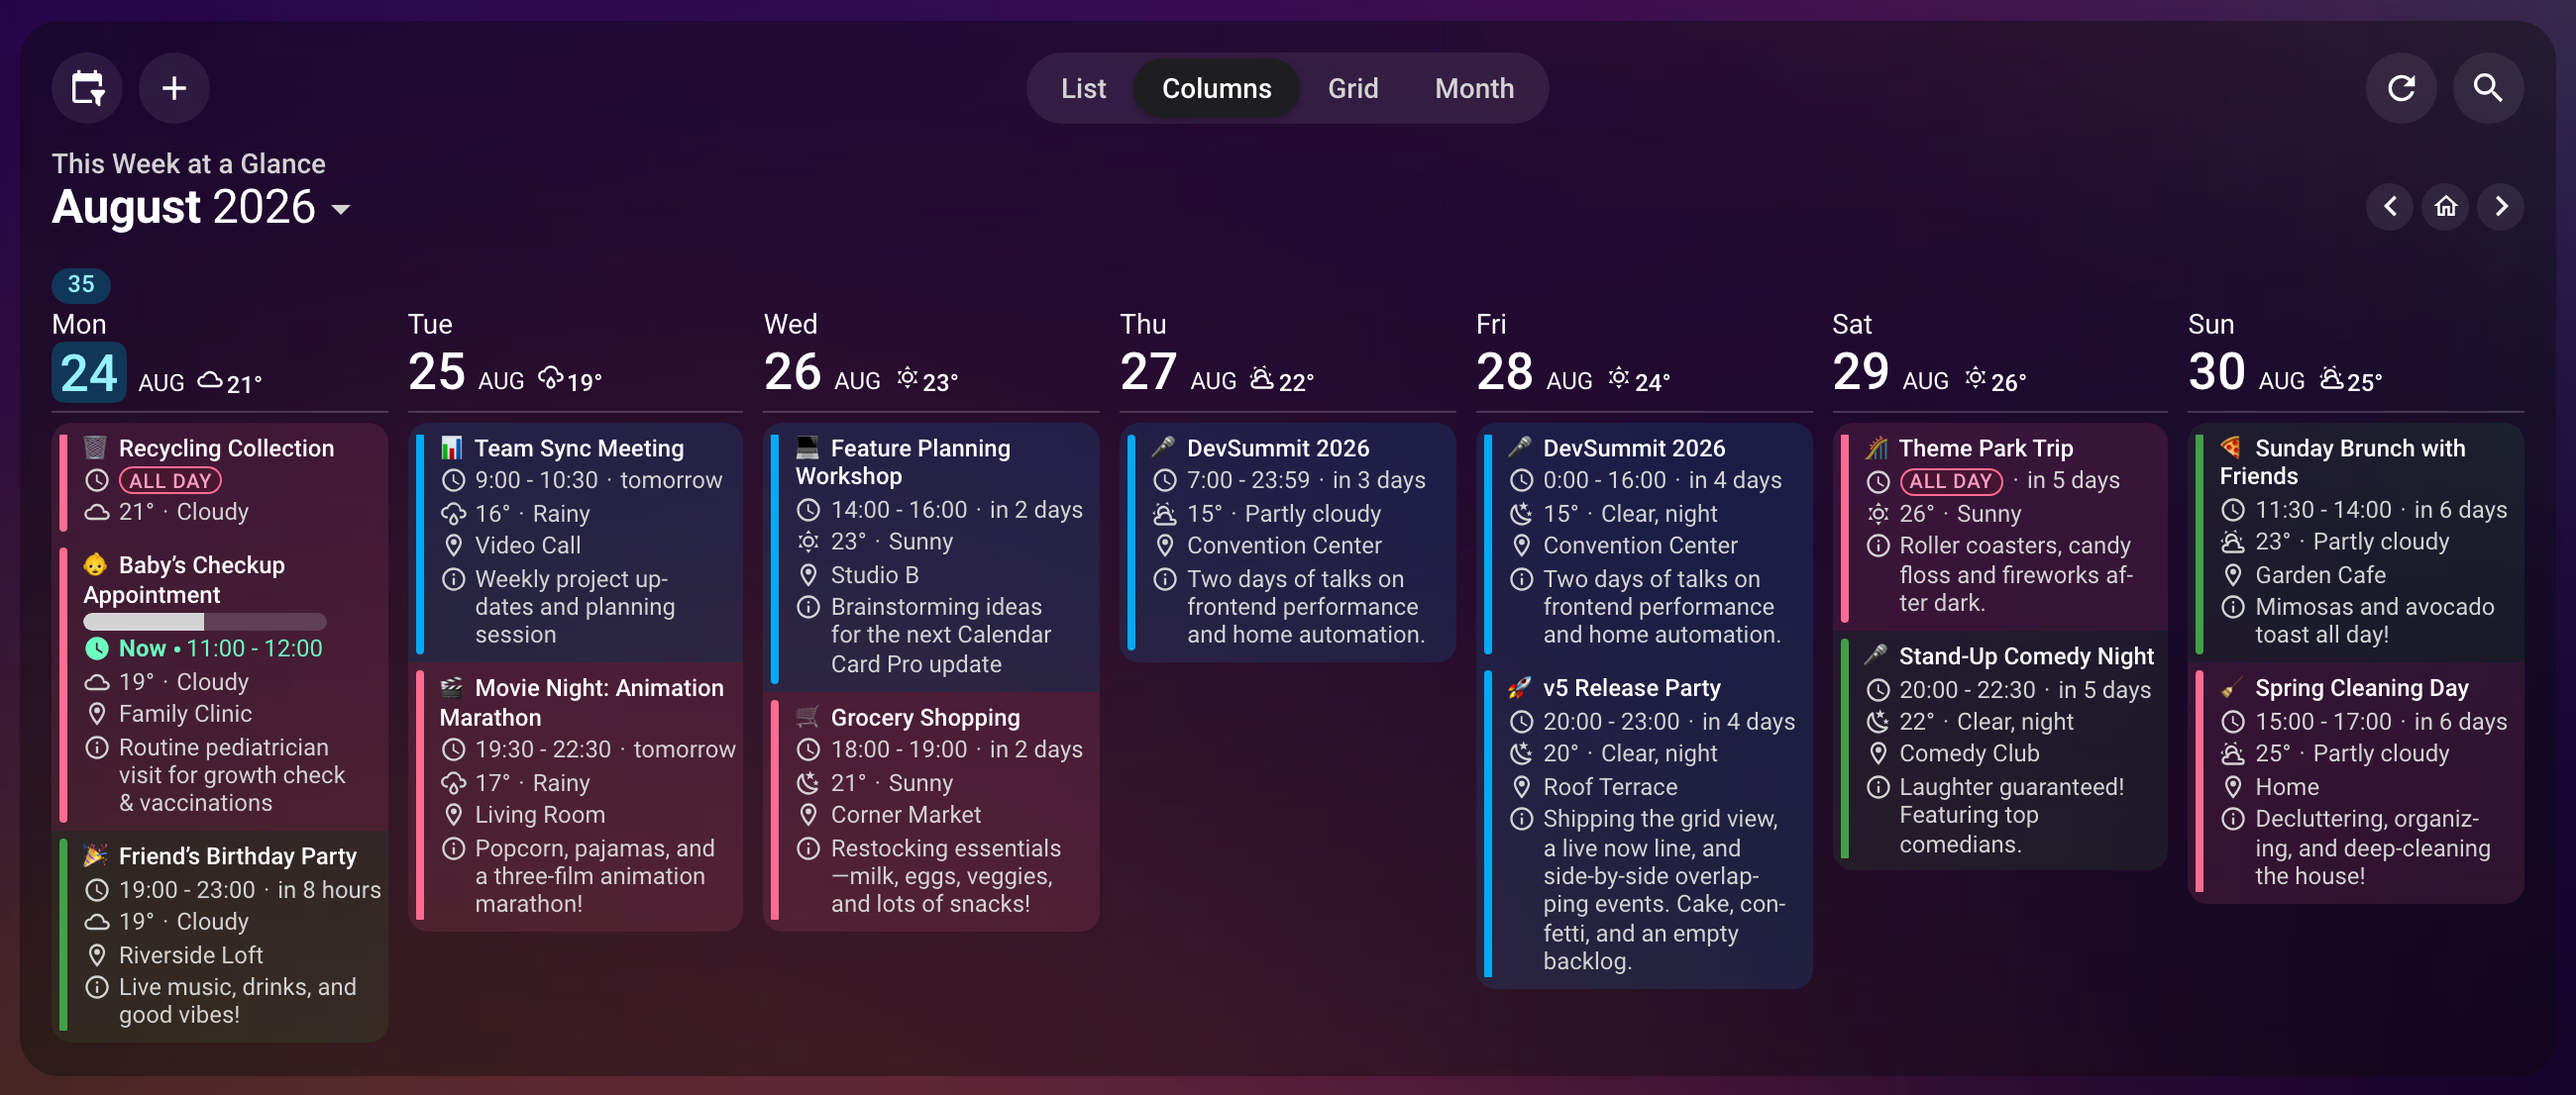
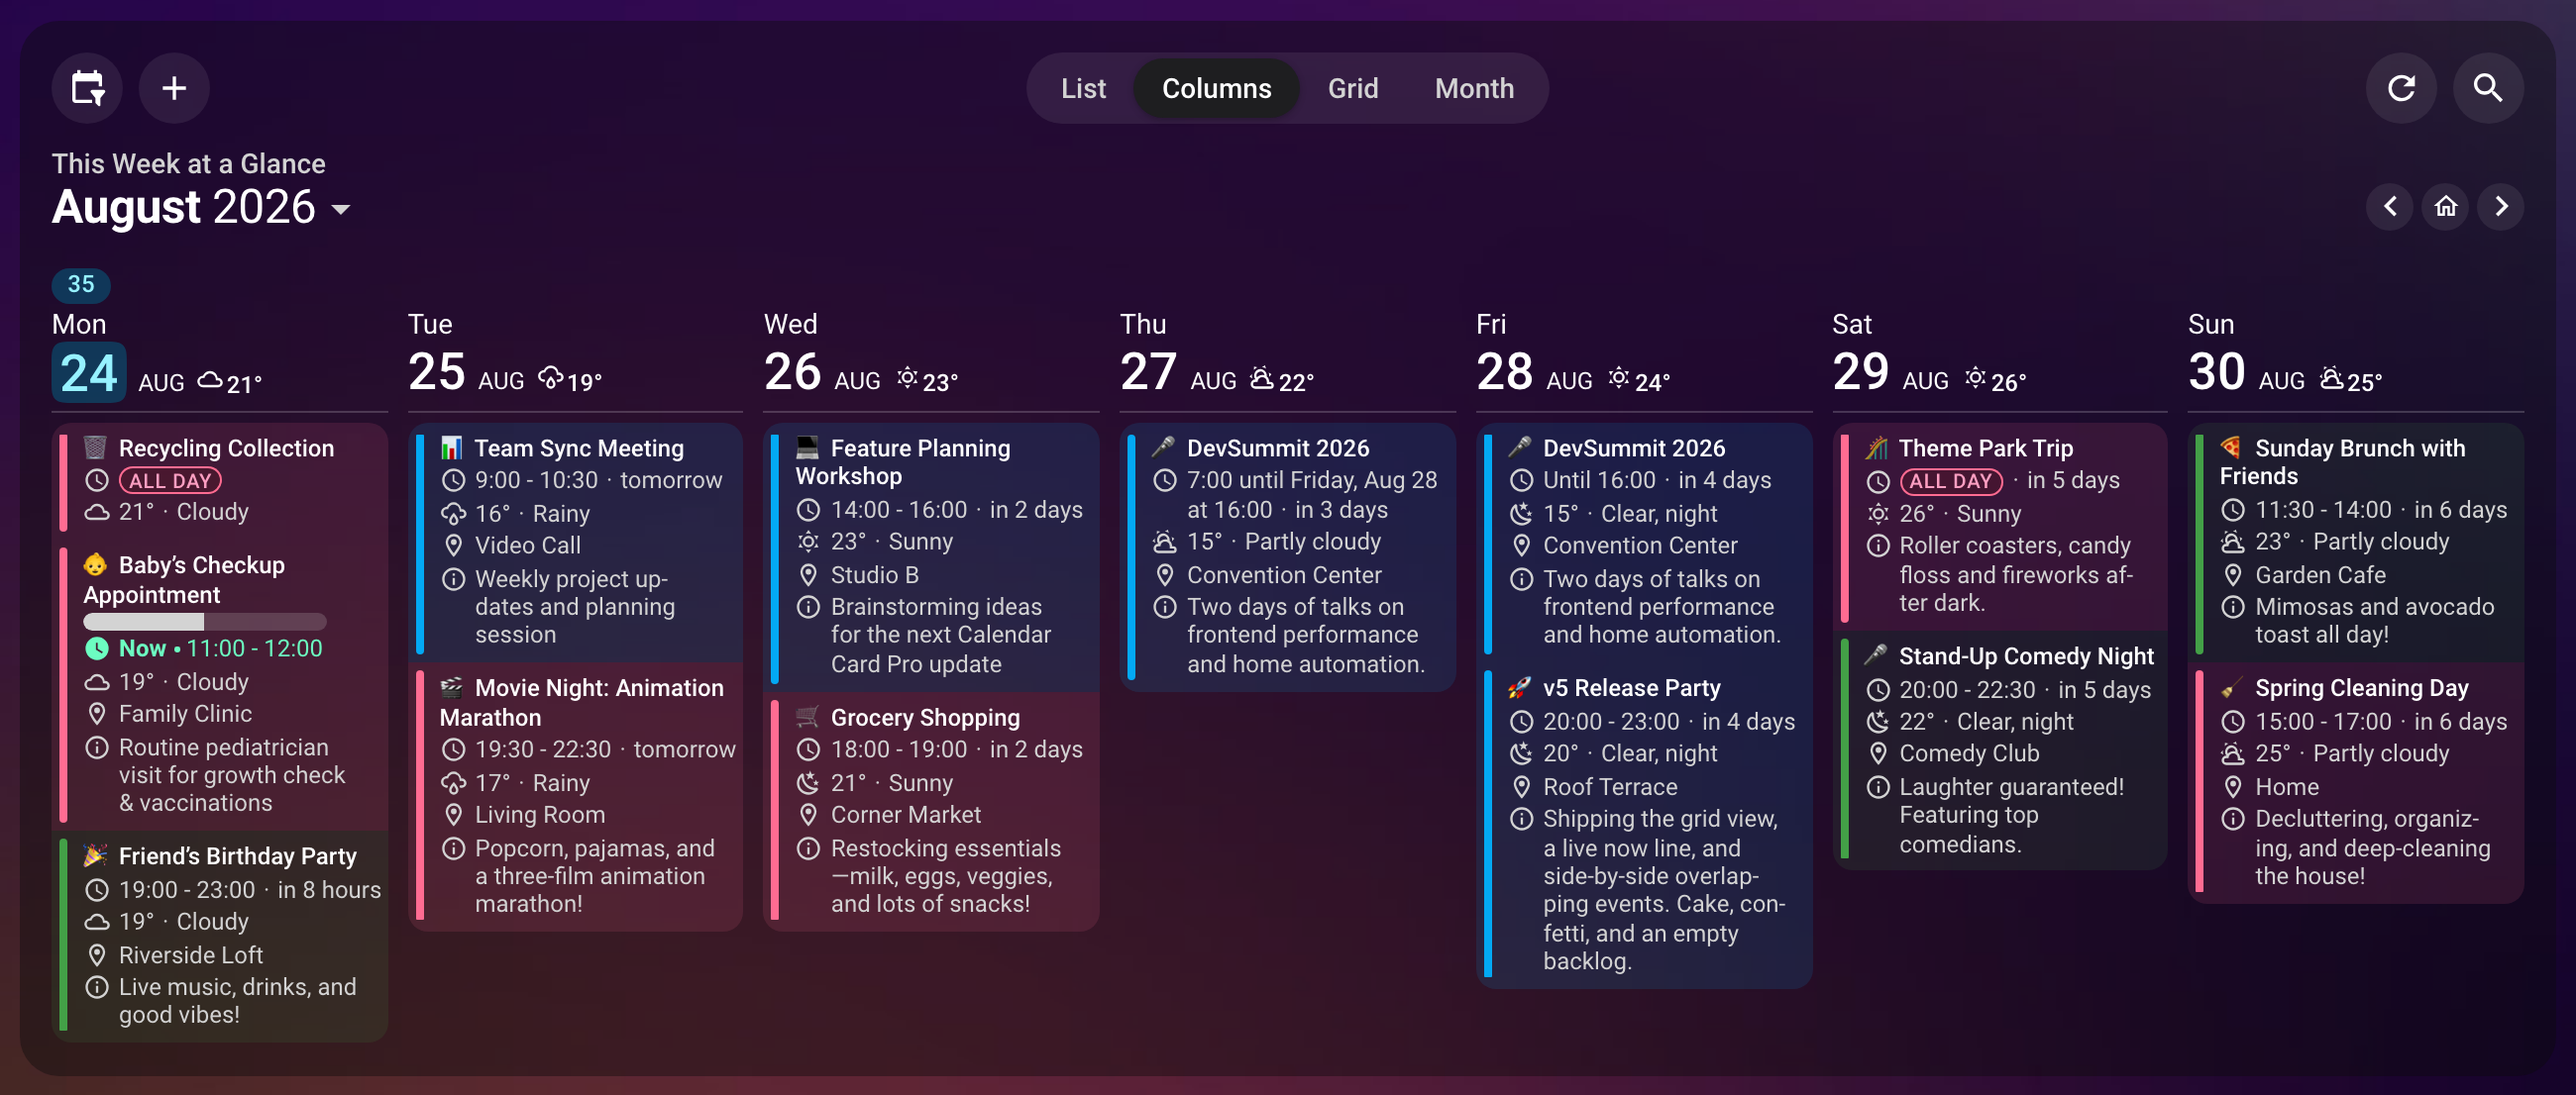
docs: retake the v6.1 stills and picture the overlay, label parts and coming weeks
The four Columns stills show DevSummit's split rows as they now read,
"7:00 until Friday, Aug 28 at 16:00" and "Until 16:00". The editor's
overview is a new file, example_editor_v6.1.png, showing Full Size and
More; example_editor_v6.png stays as the v6.0.0 notes show it.

Three new stills: the card opened full size over a wall tablet's
dashboard (Actions), two-part labels with pictures at 2em (Core
Settings, whose example now uses Anna's Office and WFH rows, as the
demo calendars hold no Football series), and Month showing the coming
four weeks (Month View).

Every other still and video was rebuilt or rendered on this build and
found current.

Changed region(s): [[0.4362, 0.4304, 0.5608, 0.6456], [0.5919, 0.4304, 0.6854, 0.4611]]

diff --git a/docs/features/editor.md b/docs/features/editor.md
@@ -12,7 +12,7 @@ have not added a card yet, start with [Usage](/guide/usage).
 
 ## 🗺 The Overview
 
-<img src="https://raw.githubusercontent.com/alexpfau/calendar-card-pro/main/.github/img/example_editor_v6.png" alt="The visual editor in dark mode beside a live preview of a Family card: a search field with Undo, Redo and Pick From Preview, the four calendars with their colors and faces, Whole Card's three pages, and Layouts with List selected over Columns, Grid and Month, then Layout Defaults" width="600"><br>
+<img src="https://raw.githubusercontent.com/alexpfau/calendar-card-pro/main/.github/img/example_editor_v6.1.png" alt="The visual editor in dark mode beside a live preview of a Family card: a search field with Undo, Redo and Pick From Preview, the four calendars with their colors and faces, Whole Card's three pages, Layouts with List selected over Columns, Grid and Month, then Layout Defaults, Full Size with its Full-Size Settings row, and More with Stored Settings and Start From an Example" width="600"><br>
 
 The overview is the first thing the editor shows. It holds the card's calendars, the settings
 the whole card shares, and its layouts, each leading to pages of their own. Top to bottom:

diff --git a/docs/features/core-settings.md b/docs/features/core-settings.md
@@ -522,12 +522,16 @@ A person's picture can then carry an icon or an emoji that says what kind of eve
 type: custom:calendar-card-pro
 entities:
   - entity: calendar.anna
-    label: [person.anna, mdi:soccer]
-    allowlist: Football
+    label: [person.anna, mdi:briefcase]
+    label_image_size: 2em
+    allowlist: Office|WFH
   - entity: calendar.anna
     label: person.anna
-    blocklist: Football
+    label_image_size: 2em
+    blocklist: Office|WFH
 ```
+
+<img src="https://raw.githubusercontent.com/alexpfau/calendar-card-pro/main/.github/img/example_label_parts.png" alt="Three days of Anna's events, each led by her face drawn at twice the text's height: her Office and WFH rows also carry a briefcase icon after the face, while Baby gym, Book club, Call Ben, Coffee with Jana and Pilates show the face alone" width="450"><br>
 
 Each part is read on its own, as a single `label` is: text or an emoji, an `mdi:` icon, an image
 address, a `person.` entity ID, or `home-assistant`. `label_icon_color` tints every icon in the

diff --git a/docs/features/month-view.md b/docs/features/month-view.md
@@ -86,6 +86,8 @@ while that month is today's, and otherwise by the month it goes to, such as "Jan
 week holding `start_date`, or today's week, and `month → weeks` sets how many weeks follow it, so
 a wall tablet can keep the next four weeks in view all month long.
 
+<img src="https://raw.githubusercontent.com/alexpfau/calendar-card-pro/main/.github/img/example_month_coming_weeks.png" alt="A wide month card showing four weeks from Monday, October 19 to Sunday, November 15 rather than the calendar month: its heading reads October 2026, Wednesday the 21st is today, no day is dimmed, and November 1 carries its month's name where the new month begins" width="1100"><br>
+
 ```yaml
 view: month
 month:

diff --git a/docs/features/actions.md b/docs/features/actions.md
@@ -699,6 +699,8 @@ On a card that has the reset button, the button shows its check after a reset, a
 small list on a wall tablet opens onto seven days, and Month is one press away on the layout
 switcher.
 
+<img src="https://raw.githubusercontent.com/alexpfau/calendar-card-pro/main/.github/img/example_overlay.png" alt="A wall tablet whose two-day Family list has opened full size over the dimmed dashboard: Grid on a week from Wednesday, October 21 to Tuesday, October 27, each event in its calendar's color with the family's faces, the layout switcher with Grid selected, and a red Close button at the end of the top row"><br>
+
 ```yaml
 tap_action:
   action: overlay
